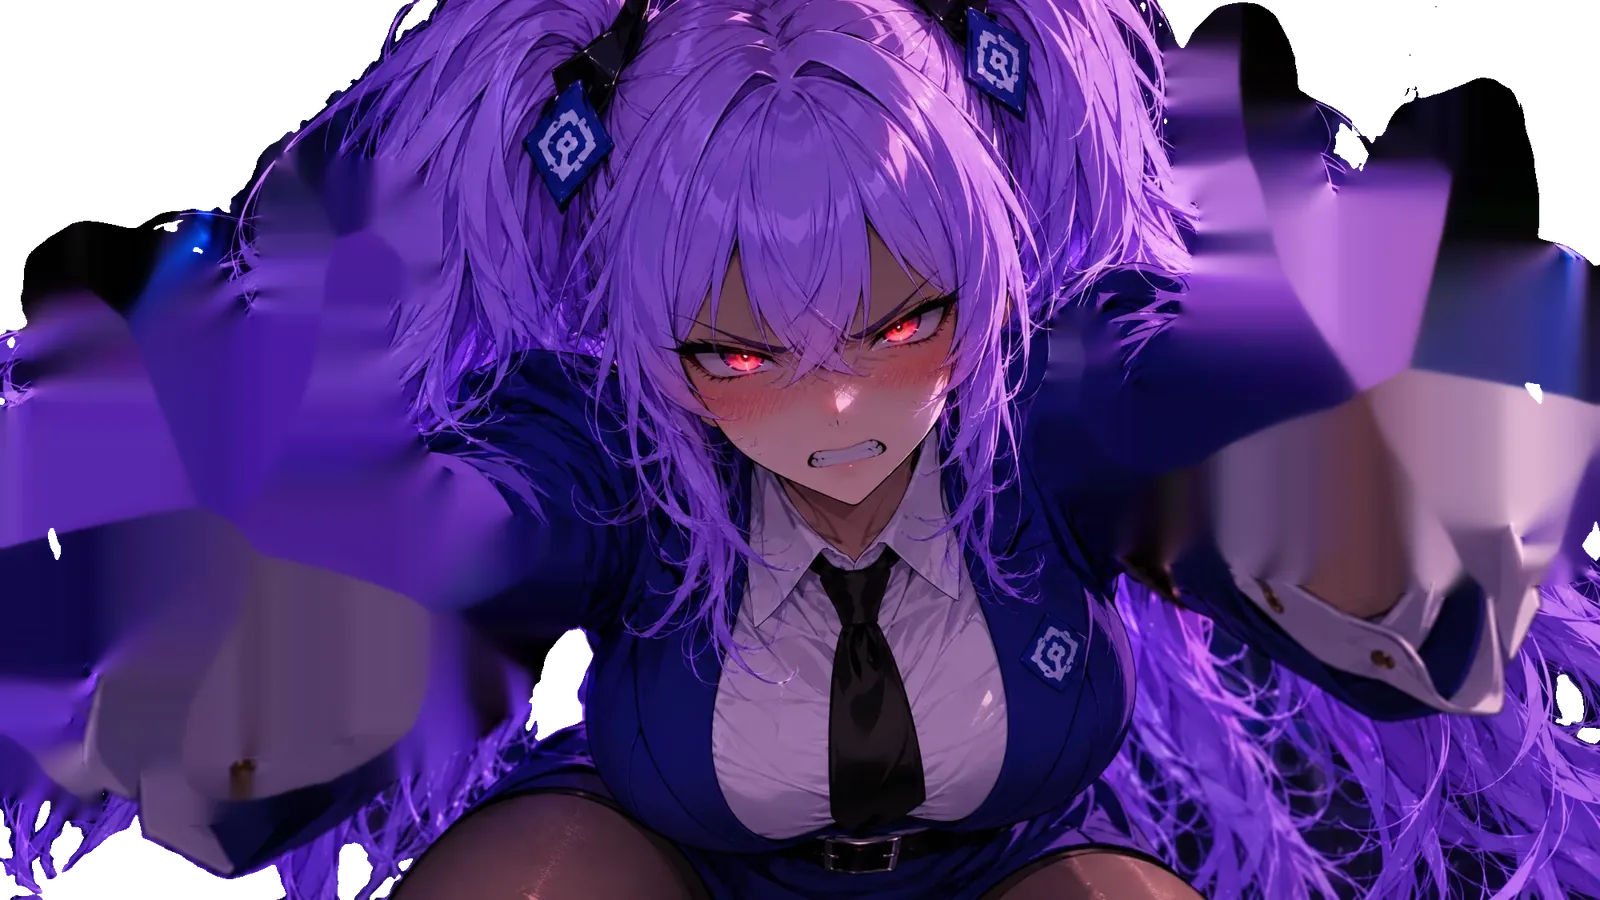
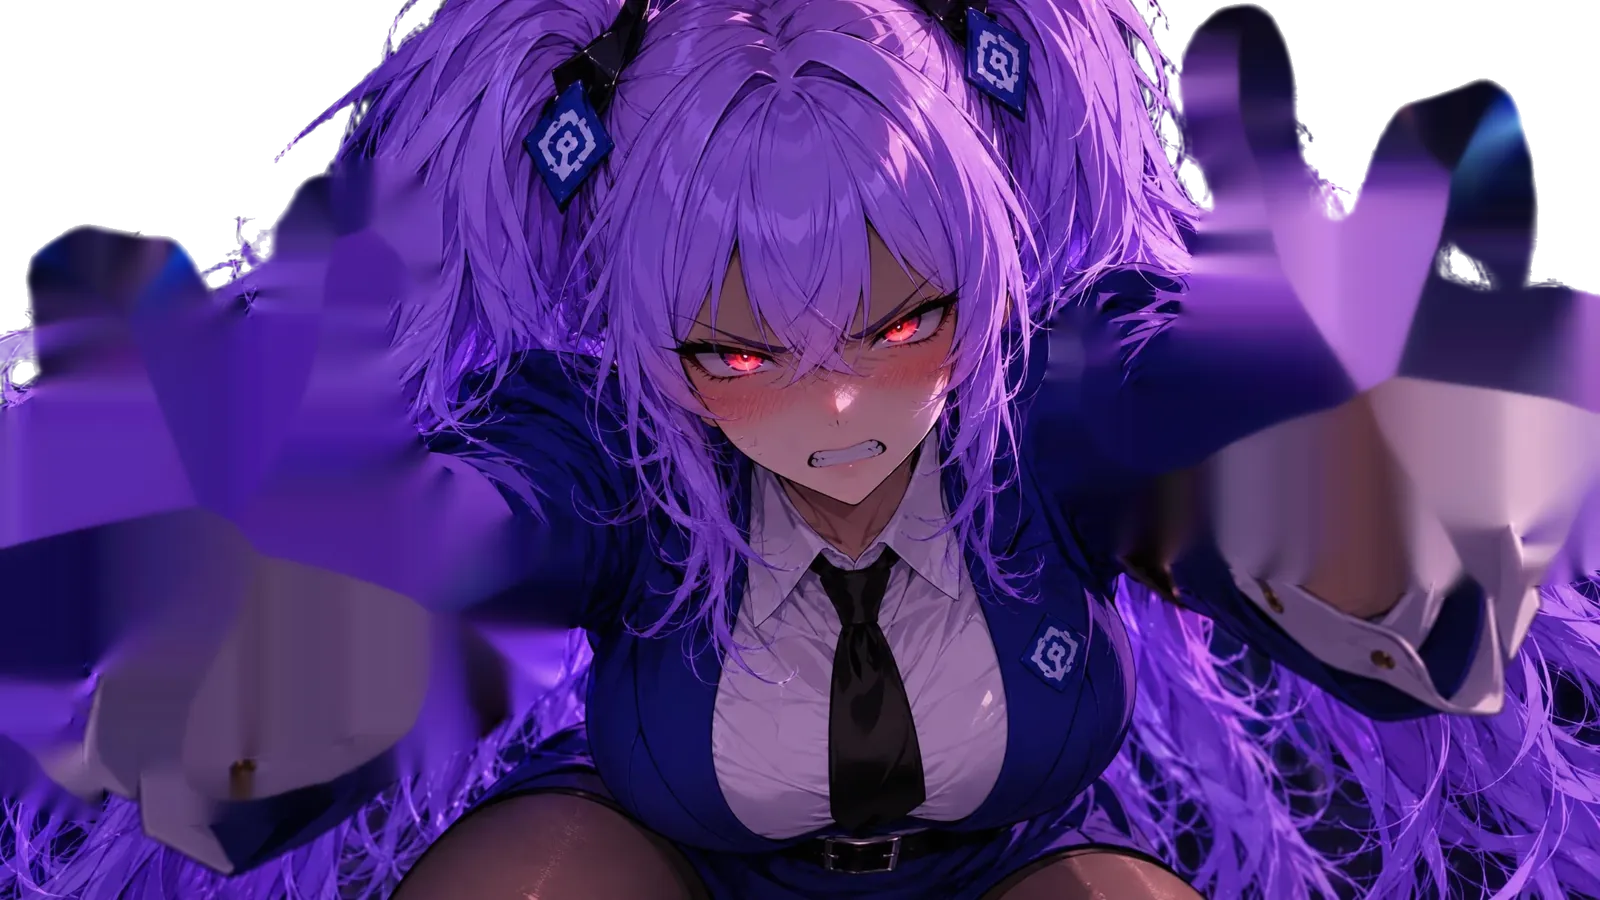
Главная: чистая вырезка персонажей (BiRefNet), свечение только снаружи силуэта и у рук своё; меньше пустых отступов между секциями

diff --git a/public/assets/zapret-moe/home.css b/public/assets/zapret-moe/home.css
@@ -1907,7 +1907,7 @@ html.zpm-intro-on .zi:not(.zi-run) {
    ═══════════════════════════════════════════════════════════════════ */
 
 .zp {
-  padding: clamp(80px, 10vw, 120px) 0 0;
+  padding: clamp(56px, 7vw, 88px) 0 0;
 }
 
 .zp[hidden] {
@@ -2226,7 +2226,7 @@ html.zpm-intro-on .zi:not(.zi-run) {
    ═══════════════════════════════════════════════════════════════════ */
 
 .za {
-  padding: clamp(80px, 10vw, 128px) 0;
+  padding: clamp(56px, 7vw, 88px) 0;
 }
 
 .za-grid {
@@ -2473,7 +2473,7 @@ html.zpm-intro-on .zi:not(.zi-run) {
    ═══════════════════════════════════════════════════════════════════ */
 
 .zt {
-  padding: 0 0 clamp(80px, 10vw, 128px);
+  padding: 0 0 clamp(56px, 7vw, 88px);
 }
 
 .zt-grid {
@@ -2628,7 +2628,7 @@ html.zpm-intro-on .zi:not(.zi-run) {
    ═══════════════════════════════════════════════════════════════════ */
 
 .zr {
-  padding: clamp(80px, 10vw, 120px) 0;
+  padding: clamp(56px, 7vw, 88px) 0;
   border-top: 1px solid var(--line);
   background:
     radial-gradient(50rem 26rem at 0% 0%, rgba(55, 227, 154, 0.07), transparent 70%),
@@ -2782,7 +2782,7 @@ html.zpm-intro-on .zi:not(.zi-run) {
    ═══════════════════════════════════════════════════════════════════ */
 
 .zci {
-  padding: clamp(80px, 10vw, 120px) 0;
+  padding: clamp(56px, 7vw, 88px) 0;
 }
 
 .zci-pipe {
@@ -2921,7 +2921,7 @@ html.zpm-intro-on .zi:not(.zi-run) {
    ═══════════════════════════════════════════════════════════════════ */
 
 .zj {
-  padding: 0 0 clamp(80px, 10vw, 128px);
+  padding: 0 0 clamp(56px, 7vw, 88px);
 }
 
 .zj-help {
@@ -3115,7 +3115,7 @@ html.zpm-intro-on .zi:not(.zi-run) {
     .zj-cta {
       animation: z-rise linear both;
       animation-timeline: view();
-      animation-range: entry 0% entry 55%;
+      animation-range: entry 0% entry 22%;
     }
 
     .zc::before {
@@ -3126,7 +3126,7 @@ html.zpm-intro-on .zi:not(.zi-run) {
 }
 
 @keyframes z-rise {
-  from { opacity: 0; transform: translateY(36px) scale(0.98); }
+  from { opacity: 0.15; transform: translateY(24px) scale(0.99); }
   to { opacity: 1; transform: none; }
 }
 
